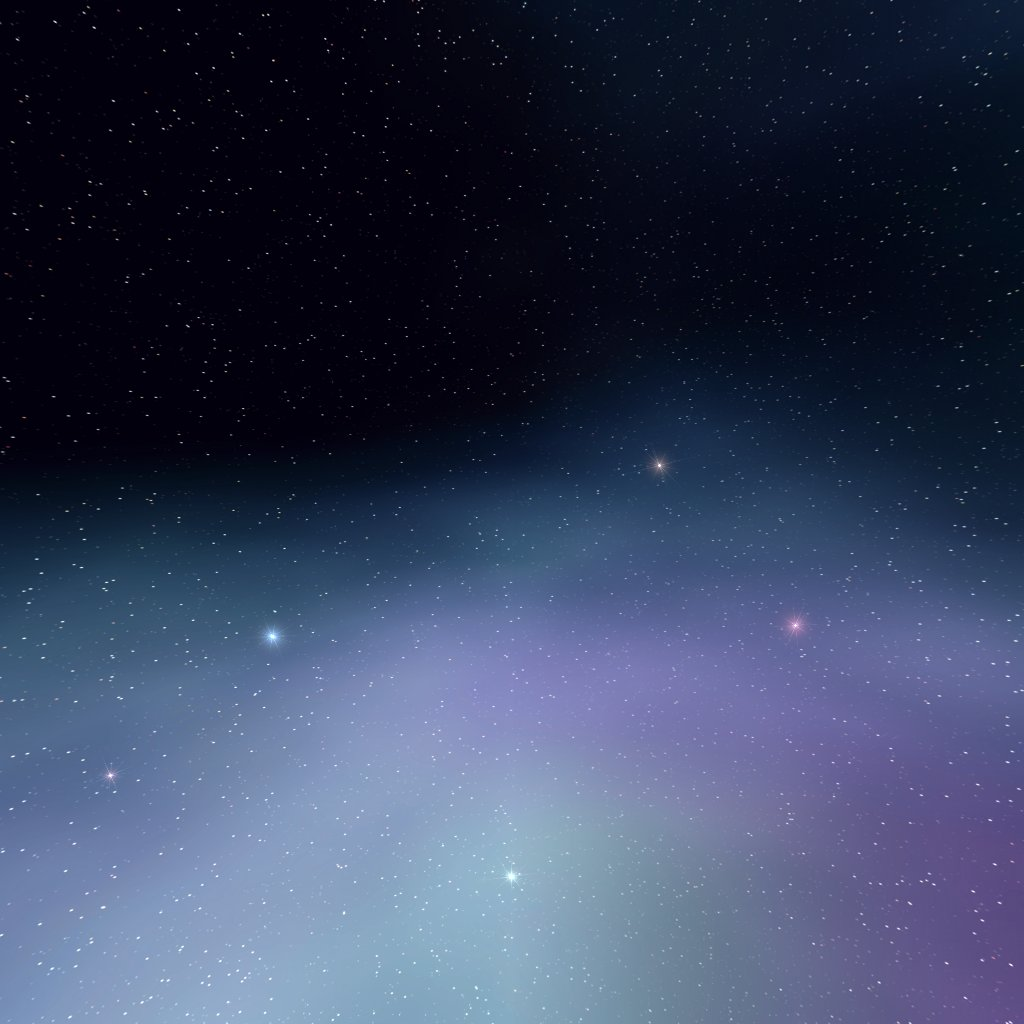
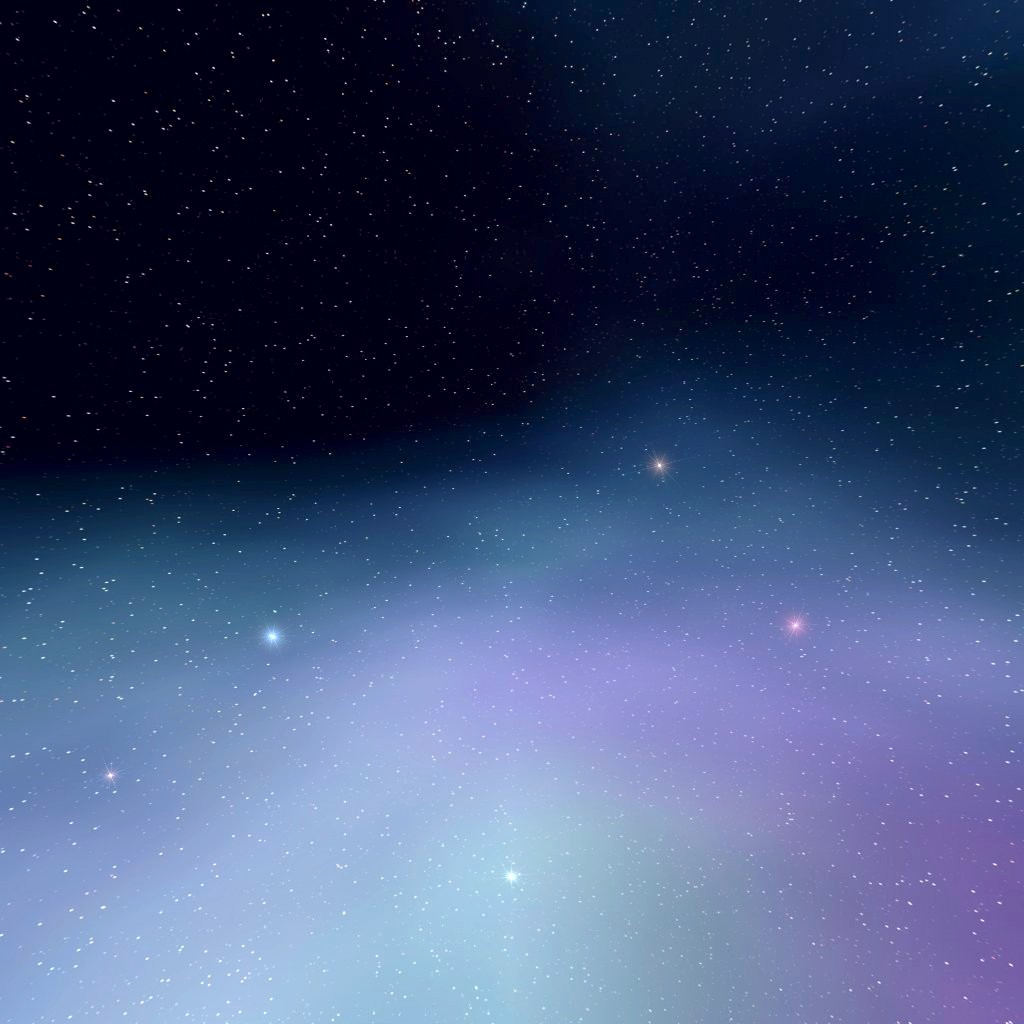
Breakout: the nebula skybox shows at last
RJ: "put a skybox around it, use one from Tami or a good space one." One was
already loaded - the six-face nebula cubemap from the starfighter repo - and it
rendered near-black: the texture was tagged sRGB while the renderer never set
an output encoding, so the shader decoded it darker and wrote the result out
without re-encoding. The tag is gone. The flat gradient backdrop plane that
stood behind the board and hid most of the sky is gone too, and the six faces
get a mild lift (a stronger one looked washed out and was rejected by eye).

Tami's skybox textures are purchased asset-pack files and stay off a public
page; these faces are RJ's own.

diff --git a/games/resume-arkanoid.html b/games/resume-arkanoid.html
@@ -599,8 +599,9 @@ function makeBackdrop(){
 }
 
 function fullGraphics(){
-  if(!backdrop) backdrop = makeBackdrop();
-  backdrop.visible = true;
+  // the flat gradient backdrop plane used to stand behind the board; with a planet below and a
+  // nebula cubemap all round, it only hid the sky. RJ 2026-09-06: "put a skybox around it".
+  if(backdrop) backdrop.visible = false;
   if(starPoints) starPoints.visible = true;
   if(grid) grid.visible = false;   // the planet is the ground now; a flat grid would slice through it
   if(sky) scene.background = sky;
@@ -1477,7 +1478,9 @@ function flyLetter(L, M, y){
 // a proper cubemap and asteroid textures; using them costs nothing and changes the whole feel.
 const sky = new THREE.CubeTextureLoader().setPath('assets/').load(
   ['sky_px.jpg','sky_nx.jpg','sky_py.jpg','sky_ny.jpg','sky_pz.jpg','sky_nz.jpg']);
-if(sky.encoding !== undefined) sky.encoding = THREE.sRGBEncoding;
+// NOT tagged sRGB. The renderer has no output encoding set, so it writes linear colour; a texture
+// tagged sRGB is decoded darker in the shader and written out without re-encoding, and the whole
+// nebula sky came out near-black. RJ 2026-09-06: "put a skybox around it" - it was there all along.
 // starts BLACK on purpose - the skybox is a track that gets added later, not the opening state
 scene.background = null;
 
